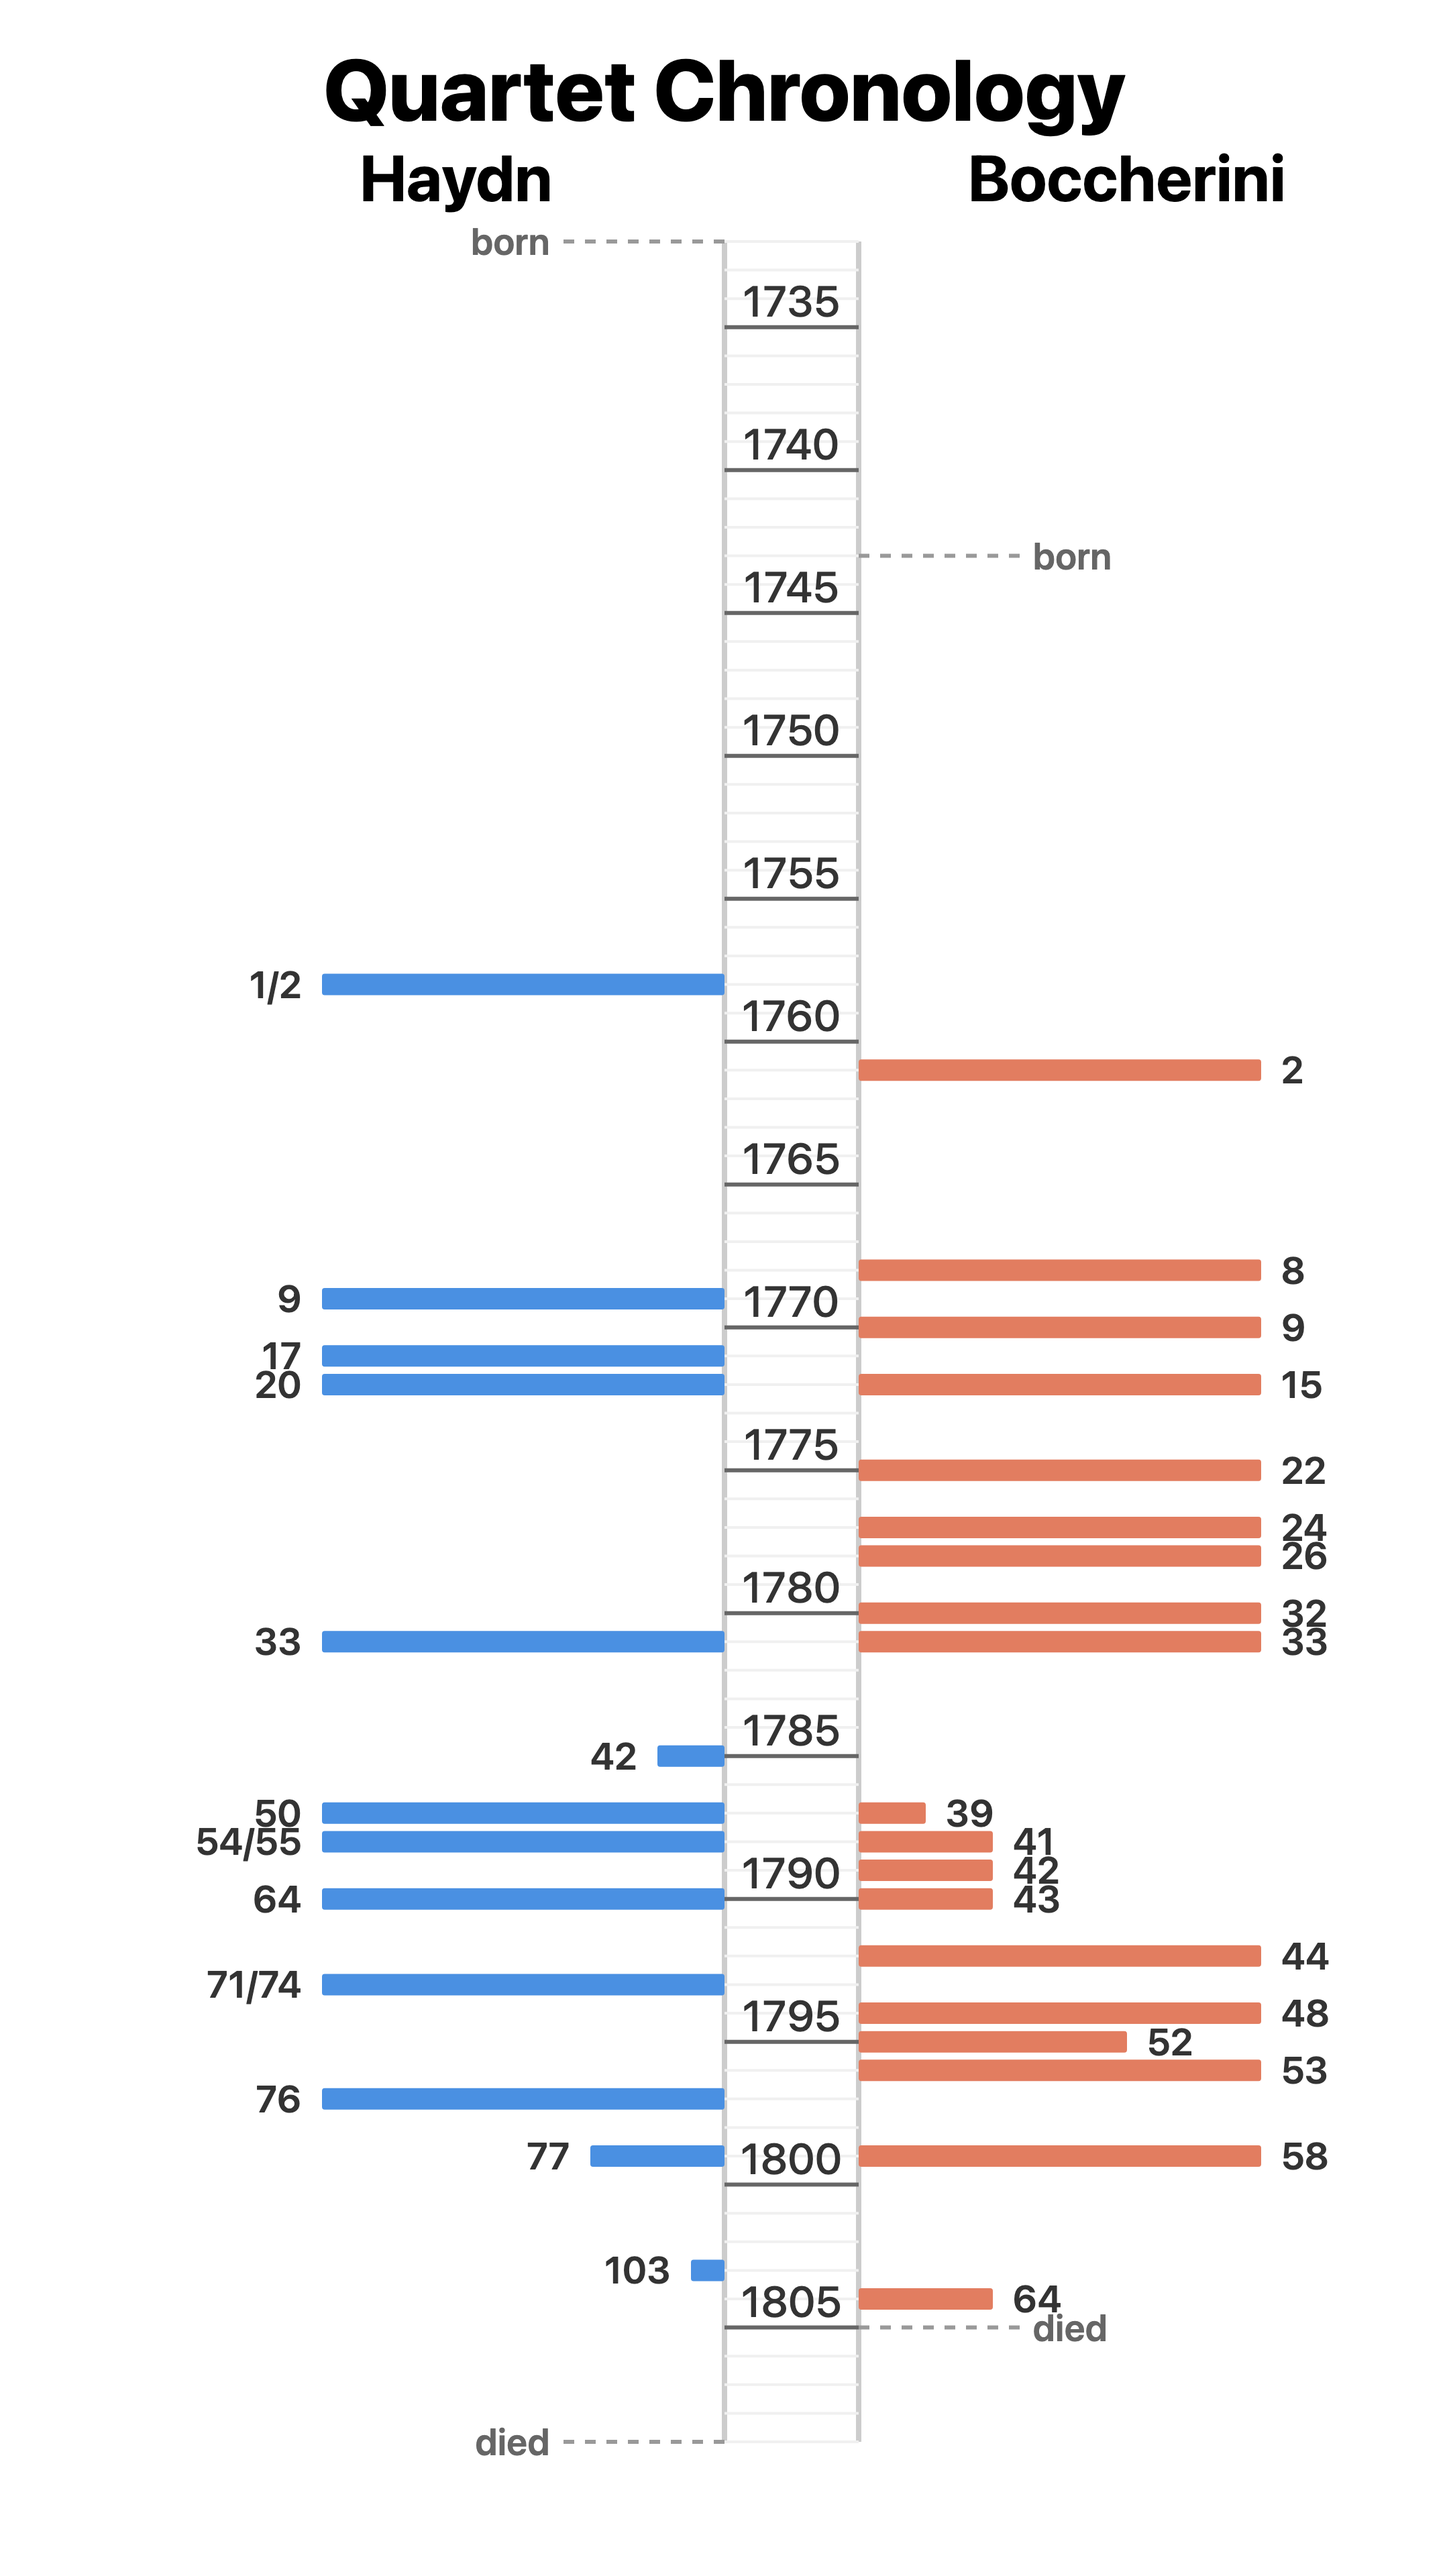
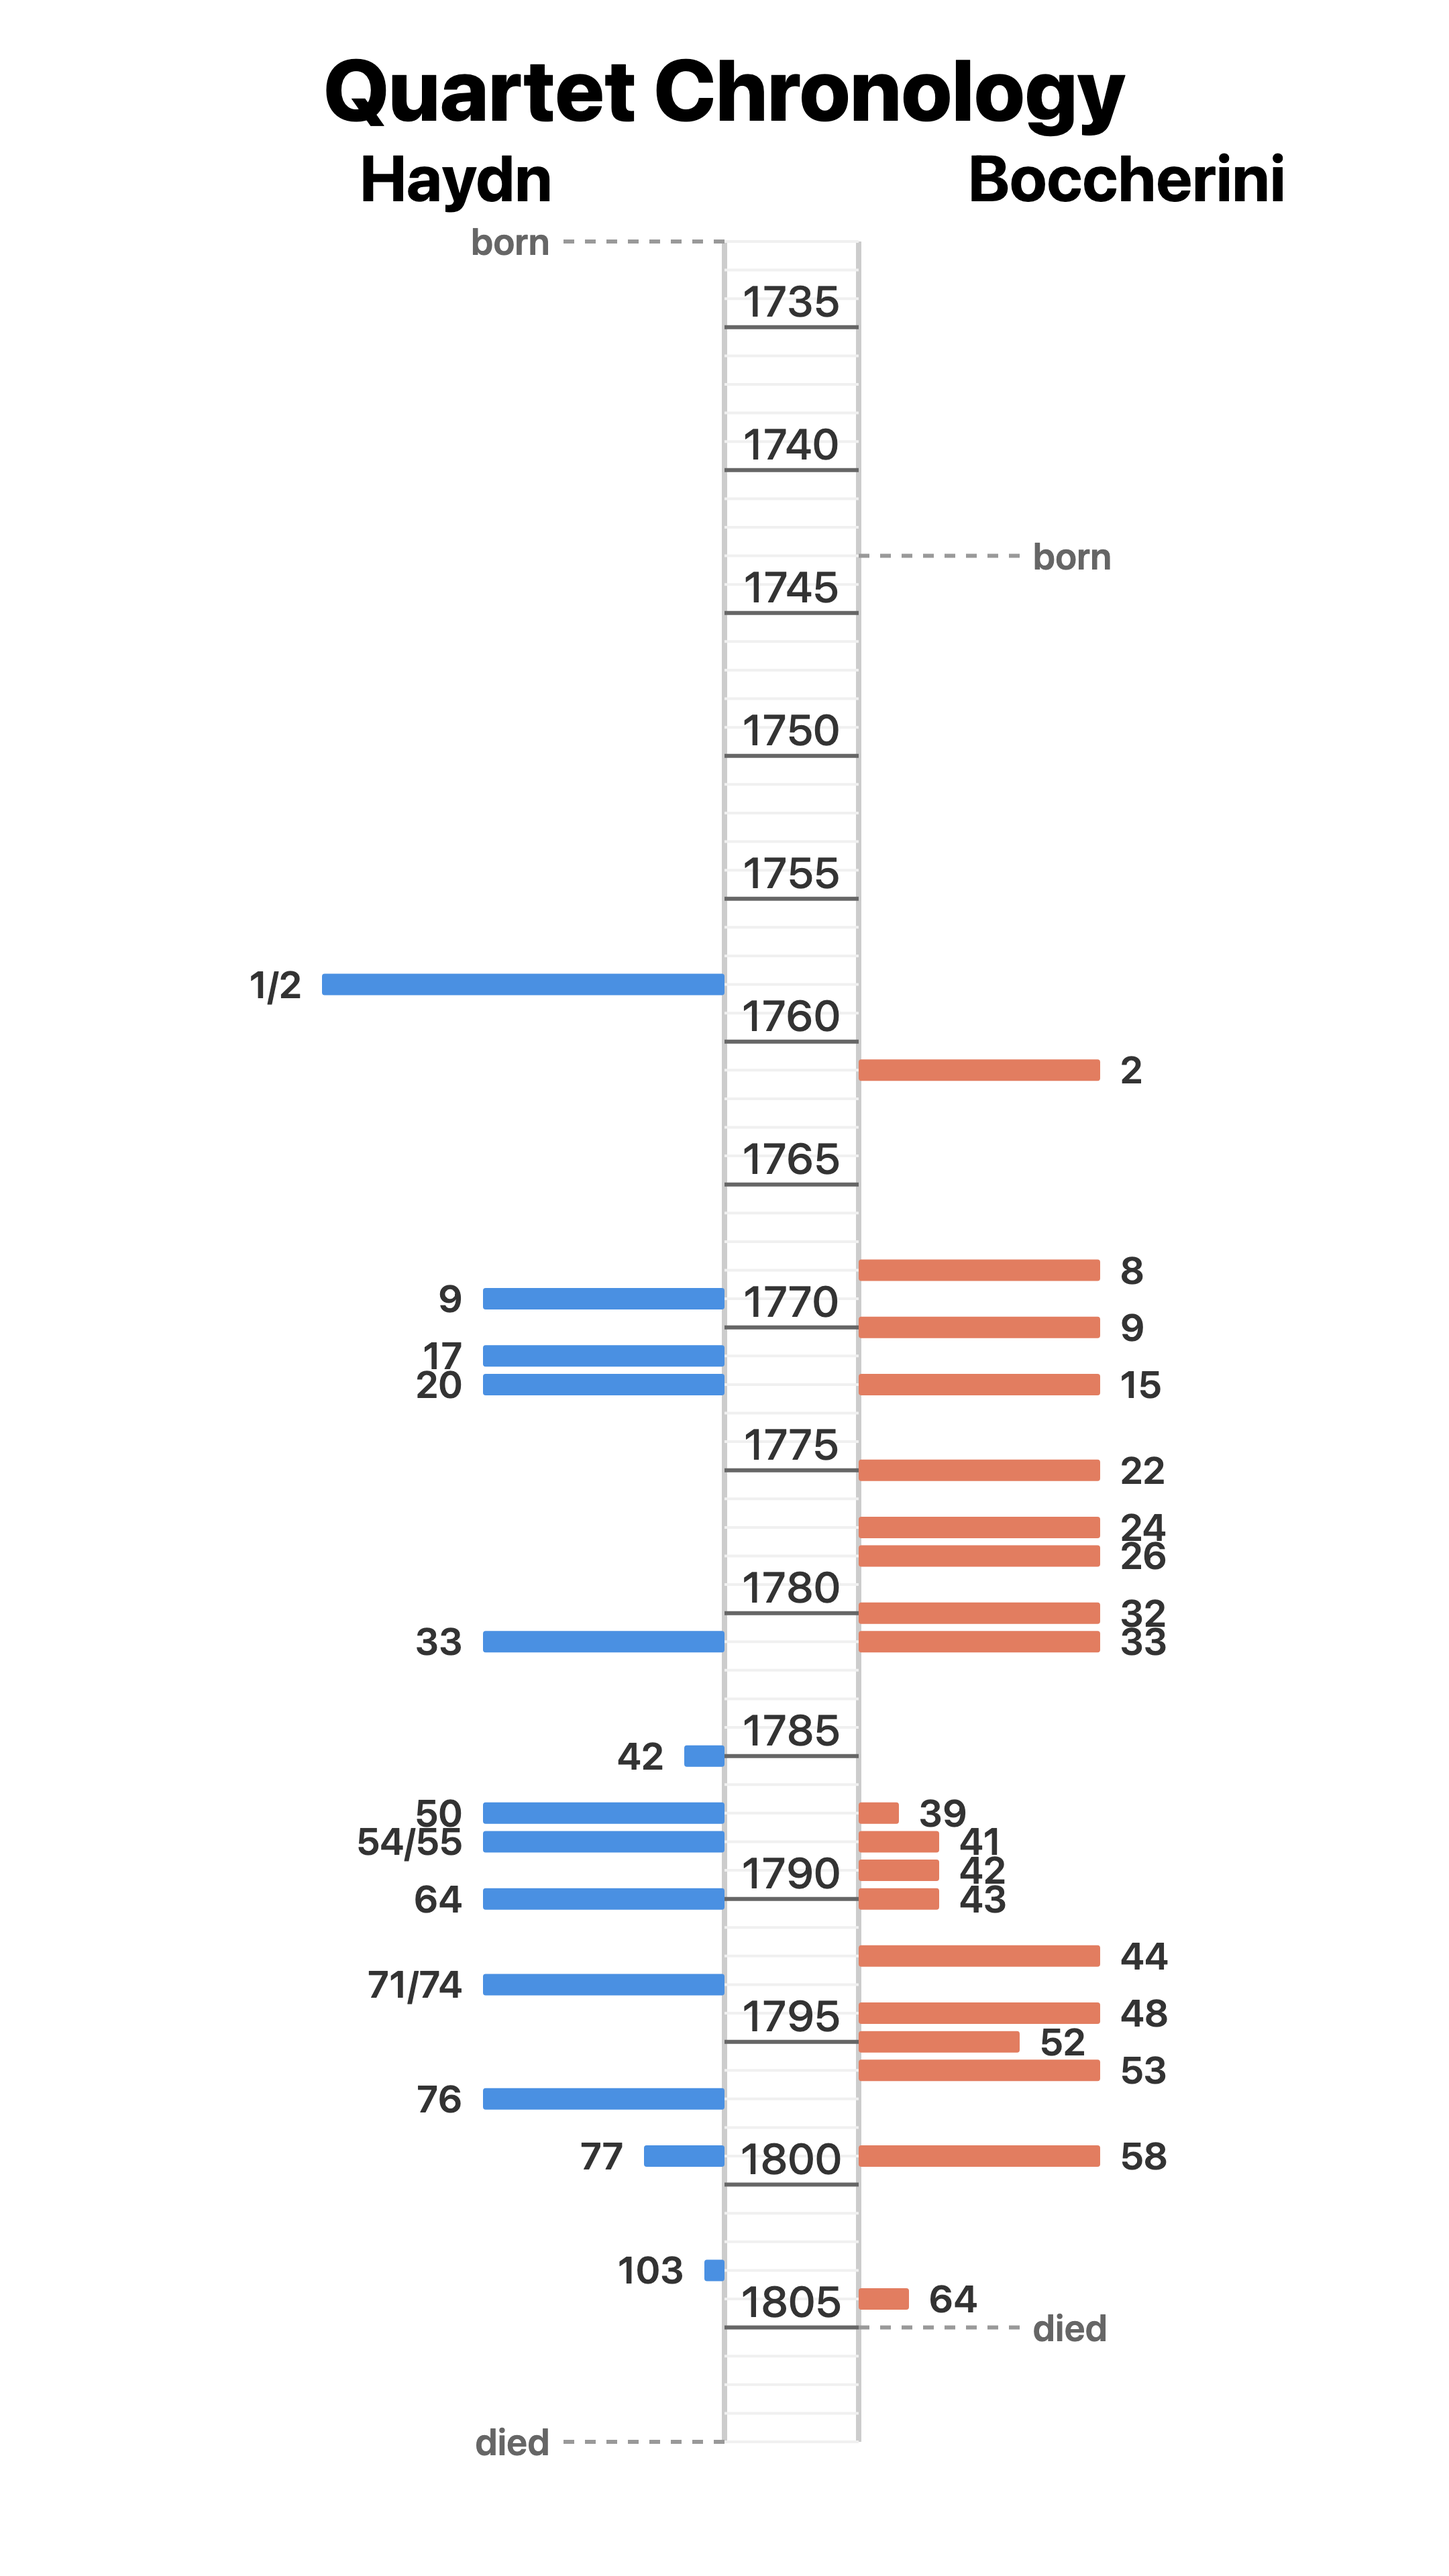
Fix bar scaling: no clamp at 6, correct Boccherini Op. 64 count
Bar widths were computed as min(count/6, 1) * maxBarWidth, silently
clamping Haydn's 10-quartet Op. 1/2 entry to the same width as a
6-quartet year. Scale by the actual max count instead. Also correct
Boccherini's 1804 Op. 64 count from 2 to 1.25.

diff --git a/index.html b/index.html
@@ -84,7 +84,7 @@
             ["Boccherini", 1799, 6, "58"],
             ["Haydn", 1799, 2, "77"],
             ["Haydn", 1803, 0.5, "103"],
-            ["Boccherini", 1804, 2, "64"],
+            ["Boccherini", 1804, 1.25, "64"],
             ["Boccherini", "1805-05-28", 0, "died"],
             ["Haydn", "1809-05-31", 0, "died"]
         ];
@@ -236,6 +236,7 @@
         // Bars
         const barHeight = 16;
         const maxBarWidth = chartWidth / 2 - 160;
+        const maxCount = Math.max(...quartets.map(d => d[2]));
 
         quartets.forEach(d => {
             const composer = d[0];
@@ -244,7 +245,7 @@
             const opus = d[3];
 
             const y = yScale(year);
-            const barWidth = Math.min((count / 6) * maxBarWidth, maxBarWidth);
+            const barWidth = (count / maxCount) * maxBarWidth;
 
             const rect = document.createElementNS('http://www.w3.org/2000/svg', 'rect');
             if (composer === 'Haydn') {
